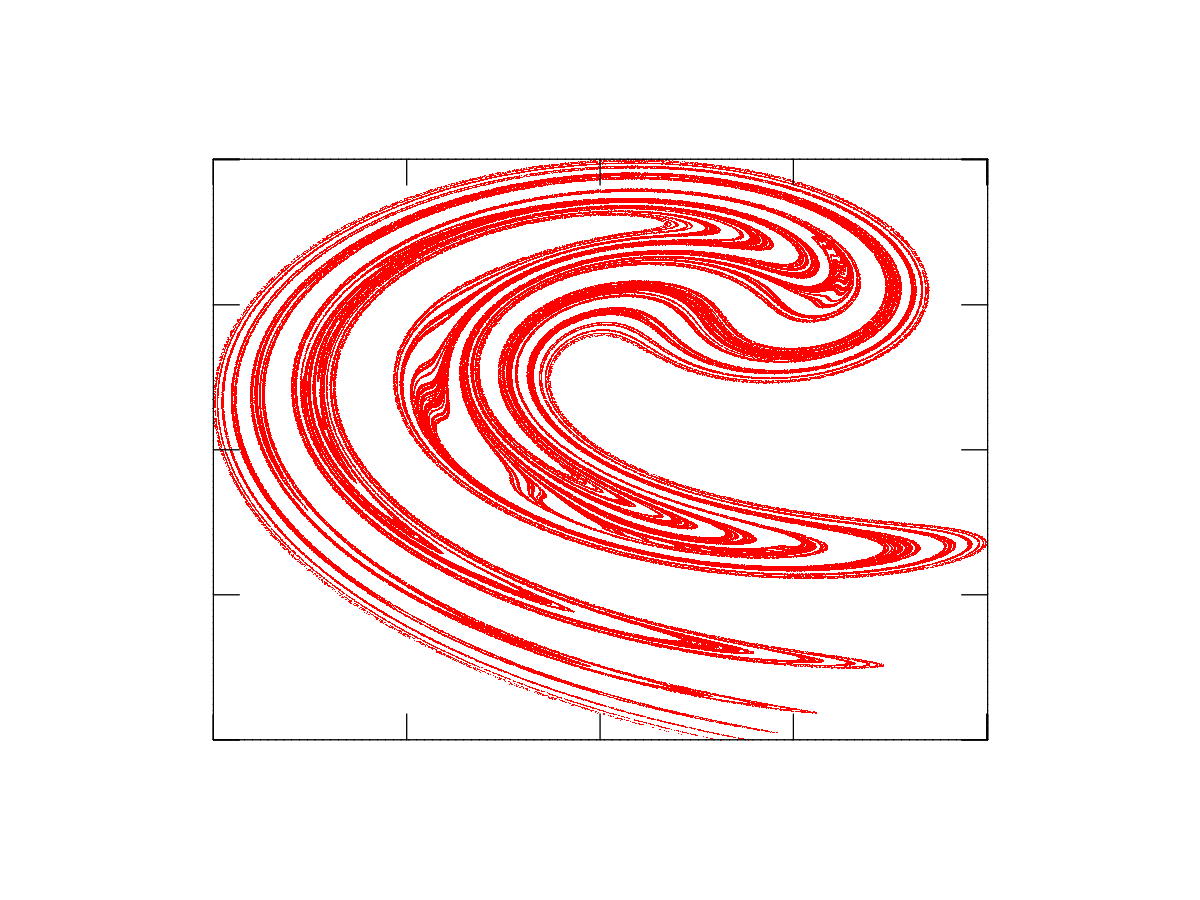
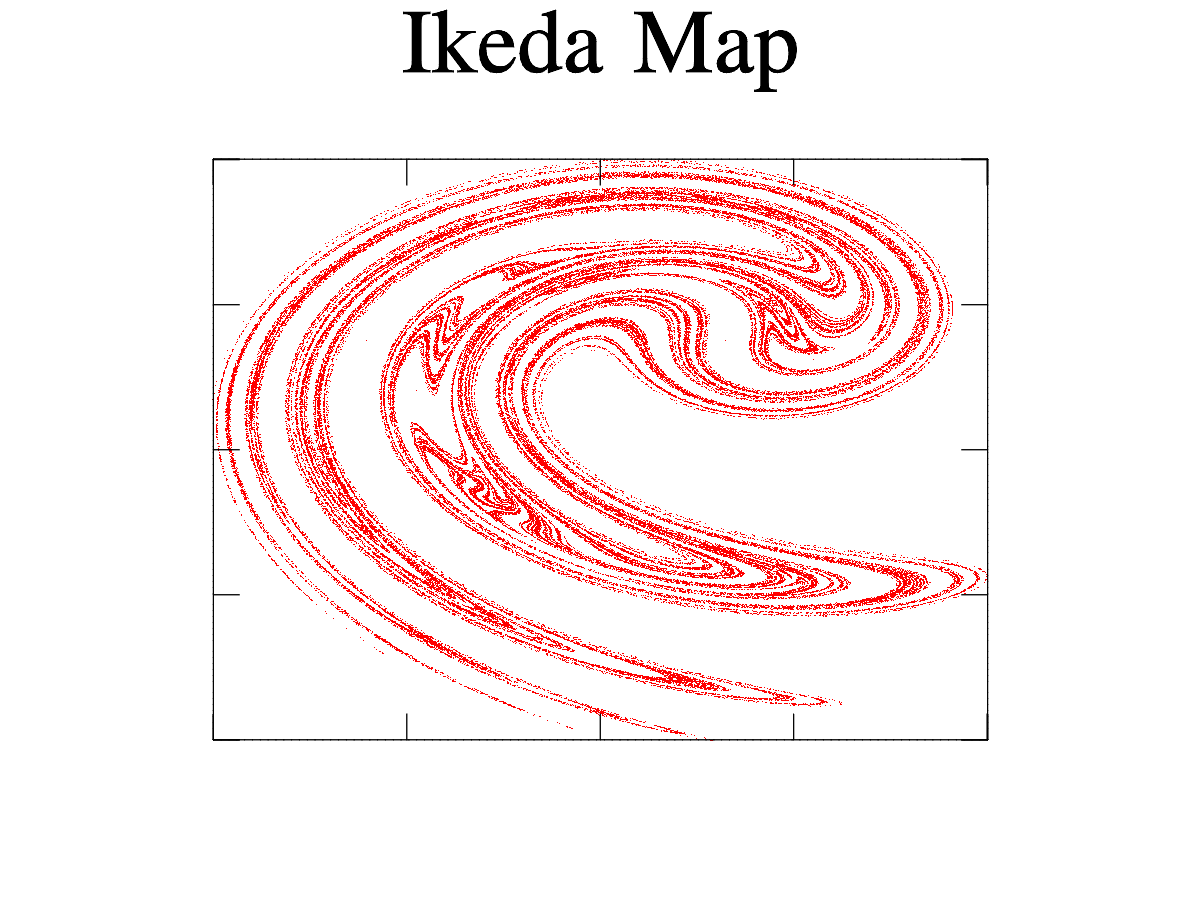
Updating code for add plot title

Changed region(s): [[0.1542, 0.1556, 0.8325, 0.8089], [0.3392, 0.0, 0.6783, 0.1244]]

diff --git a/3-Ikeda_map/ikeda_map.cpp b/3-Ikeda_map/ikeda_map.cpp
@@ -64,6 +64,9 @@ int main()
 
 // Here one uses MathGL for generate Graphics!
 
+    char parametros[100];
+    sprintf(parametros,"Ikeda Map a=%lfm, b=%lf, g=%lf, u=%lf",alfa,beta,gama,mu);
+    
     mglGraph *gr = new mglGraphZB;
 
 
@@ -75,9 +78,11 @@ int main()
 	gr->XRange(xdat);	gr->YRange(ydat); // for v.1.*
 //gr->SetRanges(xdat,ydat); // for v.2.*
 	gr->Box();
-
-	gr->Alpha(true);
+	
+	gr->Alpha(false);
 	gr->SetMarkSize(0.0005);
+	gr->Title("Ikeda Map");
+	gr->AddLegend(parametros,"b");
 	gr->Plot(xdat,ydat,"r#o "); 
     //~~~~~~~~~~~~~~~~~~~~~~~~~~~~~~~~~~~~~
     gr->WritePNG("ikeda-mgl.png");
